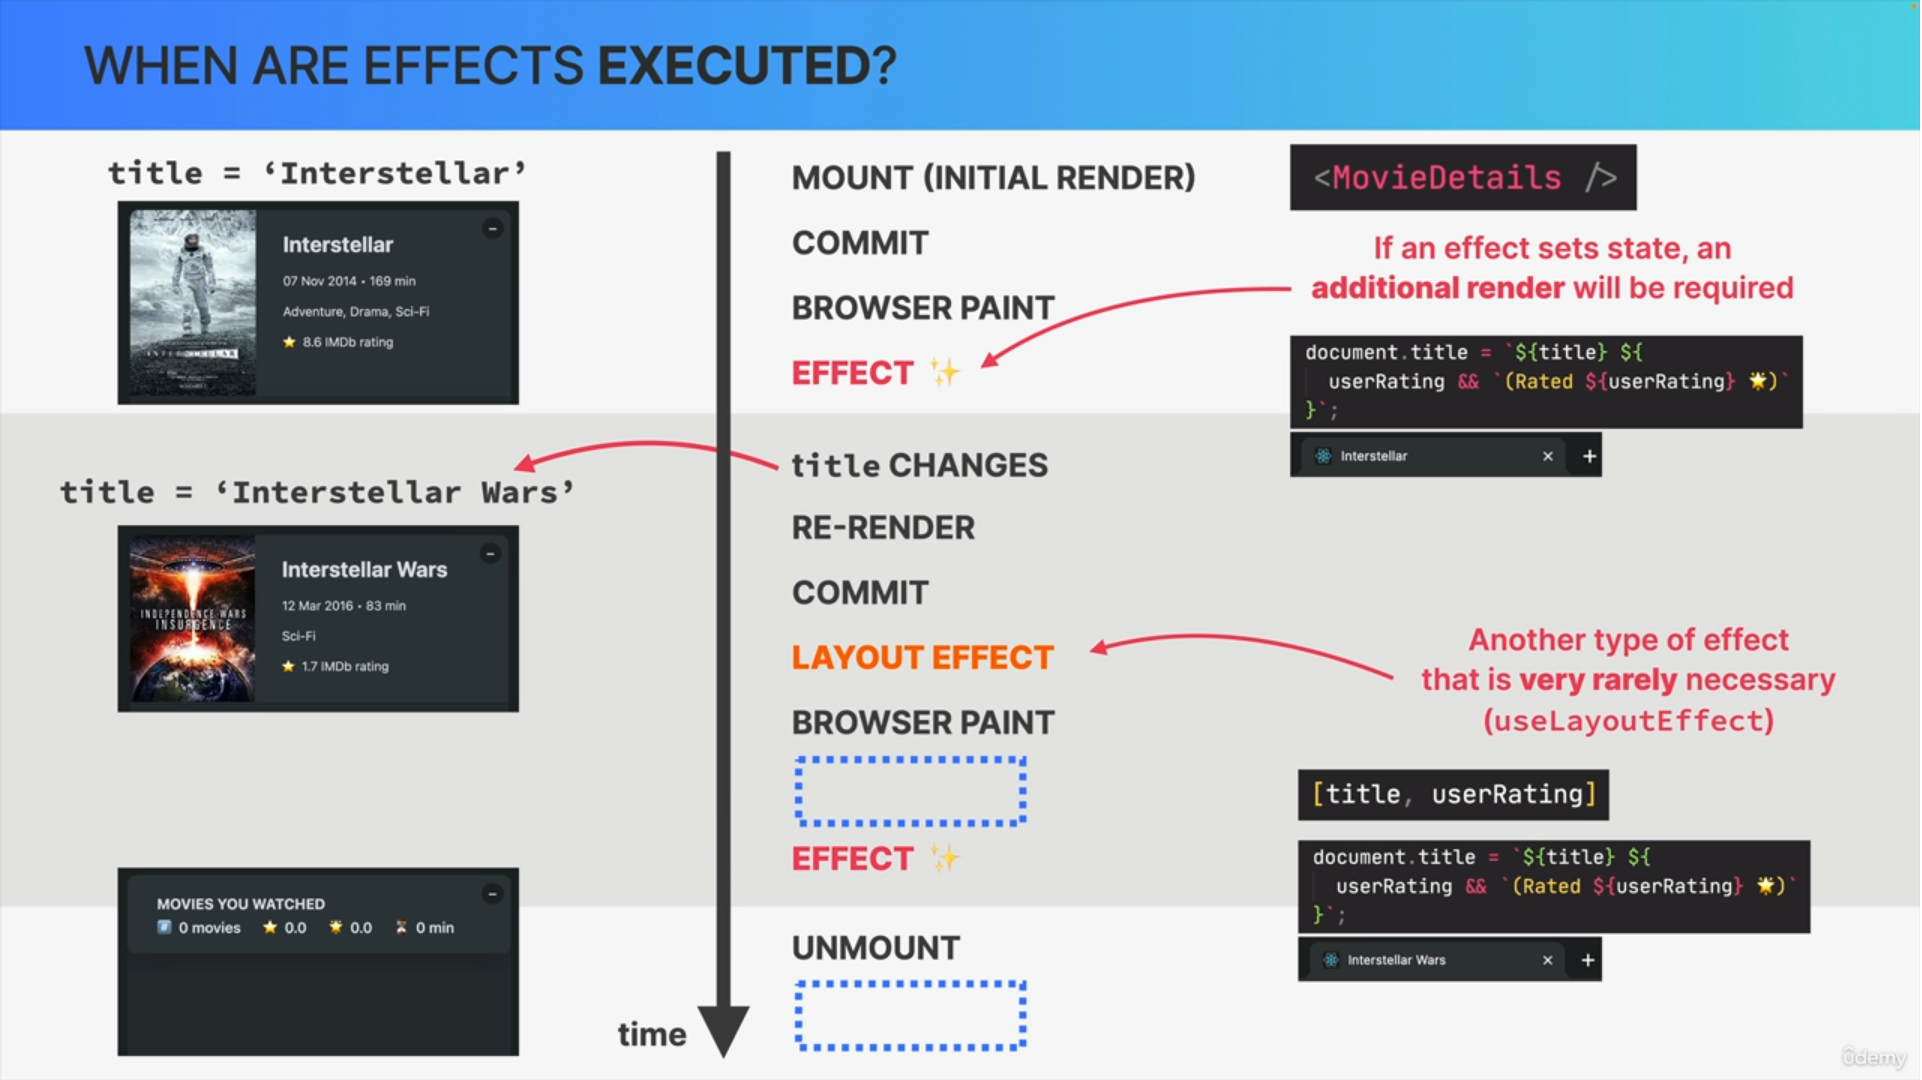
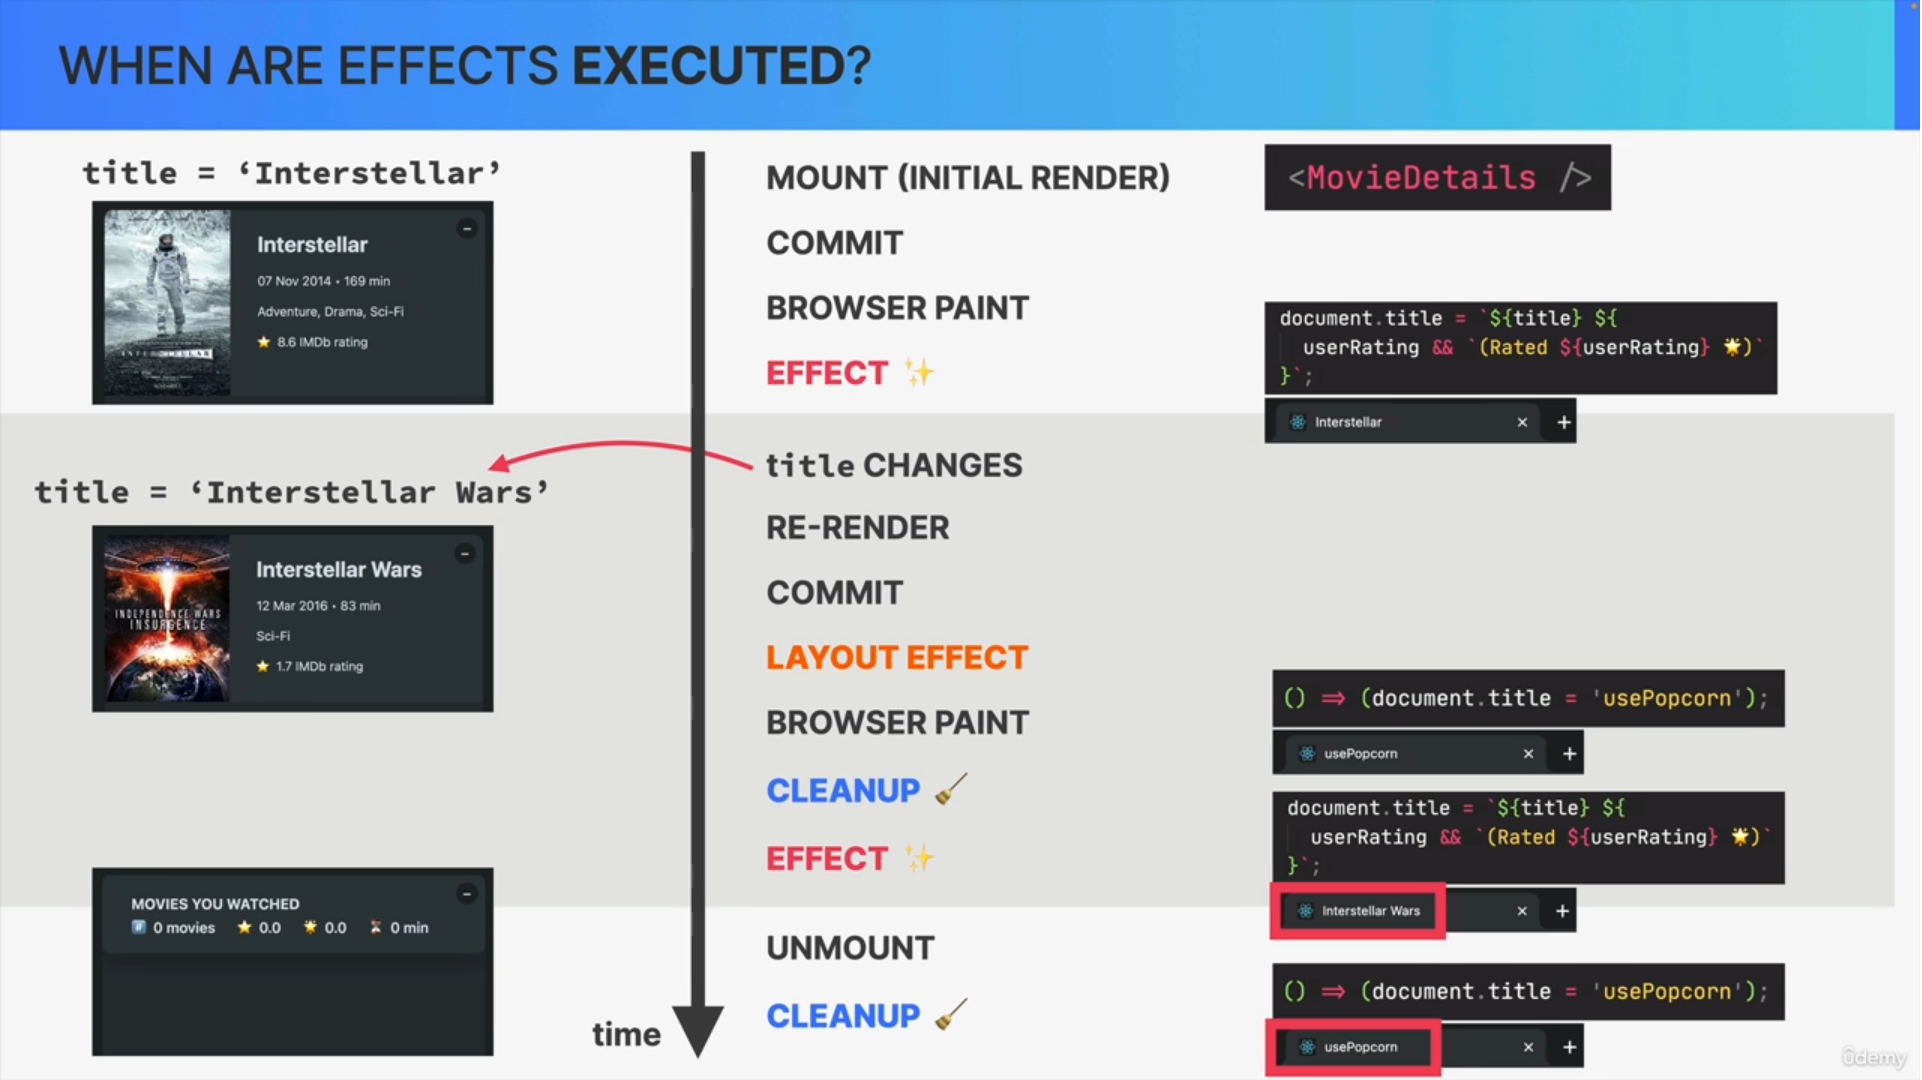
React hooks rules

diff --git a/16 ReactJs/__Documentation_React.md b/16 ReactJs/__Documentation_React.md
@@ -593,3 +593,9 @@ export default App
 ```
 
 ![Image](./images/effects-are-called.png)
+
+![Image](./images/cleanup-function.png)
+
+## 📘Hooks
+
+![Image](./images/react-hooks-1.png)
